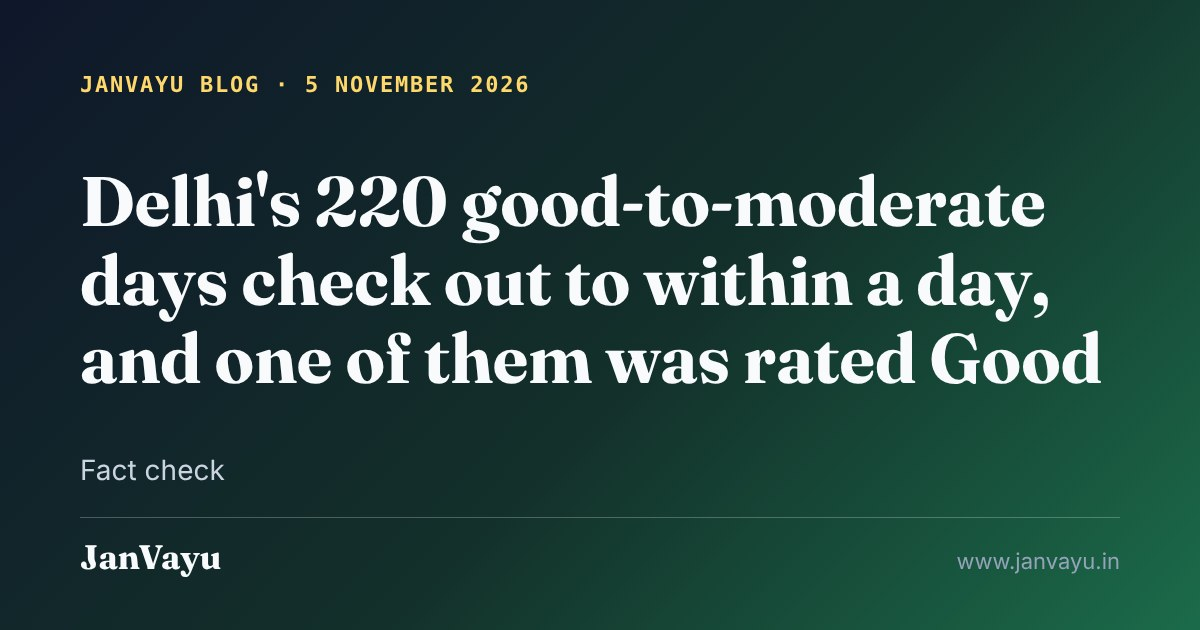
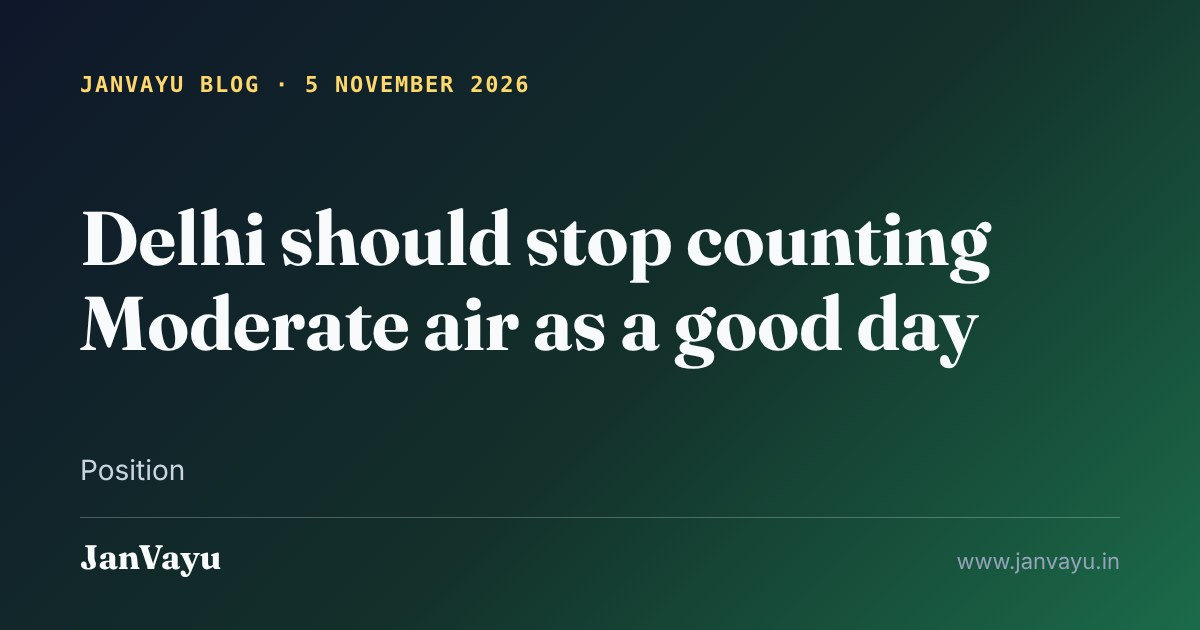
Update: 220-days post rewritten as a position piece; blog guide adds a stance section
Claude-Session: https://claude.ai/code/session_01ArXSkL7dvMWGkK3S6vfMTK

Changed region(s): [[0.0617, 0.2714, 0.925, 0.6333], [0.0617, 0.7238, 0.185, 0.7841]]

diff --git a/blog/2026-11-05-delhi-220-good-to-moderate-days/index.html b/blog/2026-11-05-delhi-220-good-to-moderate-days/index.html
@@ -4,32 +4,32 @@
 <meta charset="UTF-8">
 <meta name="viewport" content="width=device-width, initial-scale=1.0">
 <!-- Generated by scripts/build-share.py from blog/posts/2026-11-05-delhi-220-good-to-moderate-days.md. Edit the Markdown, then re-run the script. -->
-<title>Delhi&#x27;s 220 good-to-moderate days check out to within a day, and one of them was rated Good | JanVayu Blog</title>
-<meta name="description" content="A post on X by the environmentalist Vimlendu Jha, which reached us on 5 November as a screenshot, says Delhi&#x27;s Environment Minister claims 222 &quot;good air days&quot; so far this year, while the official…">
+<title>Delhi should stop counting Moderate air as a good day | JanVayu Blog</title>
+<meta name="description" content="Delhi&#x27;s government says the capital had 220 &quot;good to moderate&quot; days between January and October 2026. The environmentalist Vimlendu Jha answered that the official data shows one good day, and that…">
 <!-- share-meta:start -->
 <link rel="canonical" href="https://www.janvayu.in/blog/2026-11-05-delhi-220-good-to-moderate-days/">
 <meta property="og:site_name" content="JanVayu">
 <meta property="og:locale" content="en_IN">
 <meta property="og:type" content="article">
-<meta property="og:title" content="Delhi&#x27;s 220 good-to-moderate days check out to within a day, and one of them was rated Good">
-<meta property="og:description" content="A post on X by the environmentalist Vimlendu Jha, which reached us on 5 November as a screenshot, says Delhi&#x27;s Environment Minister claims 222 &quot;good air days&quot; so far this year, while the official…">
+<meta property="og:title" content="Delhi should stop counting Moderate air as a good day">
+<meta property="og:description" content="Delhi&#x27;s government says the capital had 220 &quot;good to moderate&quot; days between January and October 2026. The environmentalist Vimlendu Jha answered that the official data shows one good day, and that…">
 <meta property="og:url" content="https://www.janvayu.in/blog/2026-11-05-delhi-220-good-to-moderate-days/">
 <meta property="og:image" content="https://www.janvayu.in/og/blog/2026-11-05-delhi-220-good-to-moderate-days.jpg">
 <meta property="og:image:width" content="1200">
 <meta property="og:image:height" content="630">
-<meta property="og:image:alt" content="JanVayu blog: Delhi&#x27;s 220 good-to-moderate days check out to within a day, and one of them was rated Good">
+<meta property="og:image:alt" content="JanVayu blog: Delhi should stop counting Moderate air as a good day">
 <meta name="twitter:card" content="summary_large_image">
-<meta name="twitter:title" content="Delhi&#x27;s 220 good-to-moderate days check out to within a day, and one of them was rated Good">
-<meta name="twitter:description" content="A post on X by the environmentalist Vimlendu Jha, which reached us on 5 November as a screenshot, says Delhi&#x27;s Environment Minister claims 222 &quot;good air days&quot; so far this year, while the official…">
+<meta name="twitter:title" content="Delhi should stop counting Moderate air as a good day">
+<meta name="twitter:description" content="Delhi&#x27;s government says the capital had 220 &quot;good to moderate&quot; days between January and October 2026. The environmentalist Vimlendu Jha answered that the official data shows one good day, and that…">
 <meta name="twitter:image" content="https://www.janvayu.in/og/blog/2026-11-05-delhi-220-good-to-moderate-days.jpg">
-<meta name="twitter:image:alt" content="JanVayu blog: Delhi&#x27;s 220 good-to-moderate days check out to within a day, and one of them was rated Good">
+<meta name="twitter:image:alt" content="JanVayu blog: Delhi should stop counting Moderate air as a good day">
 <meta property="article:published_time" content="2026-11-05">
 <script type="application/ld+json">
 {
   "@context": "https://schema.org",
   "@type": "BlogPosting",
-  "headline": "Delhi's 220 good-to-moderate days check out to within a day, and one of them was rated Good",
-  "description": "A post on X by the environmentalist Vimlendu Jha, which reached us on 5 November as a screenshot, says Delhi's Environment Minister claims 222 \"good air days\" so far this year, while the official…",
+  "headline": "Delhi should stop counting Moderate air as a good day",
+  "description": "Delhi's government says the capital had 220 \"good to moderate\" days between January and October 2026. The environmentalist Vimlendu Jha answered that the official data shows one good day, and that…",
   "datePublished": "2026-11-05",
   "author": {
     "@type": "Organization",
@@ -46,7 +46,7 @@
   "image": "https://www.janvayu.in/og/blog/2026-11-05-delhi-220-good-to-moderate-days.jpg",
   "mainEntityOfPage": "https://www.janvayu.in/blog/2026-11-05-delhi-220-good-to-moderate-days/",
   "inLanguage": "en-IN",
-  "articleSection": "Fact check"
+  "articleSection": "Position"
 }
 </script>
 <!-- share-meta:end -->
@@ -77,35 +77,44 @@
 </head>
 <body data-jv-chrome>
 <main class="container post-page" id="main-content">
-<p class="crumb"><a href="/blog/">JanVayu Blog</a> &middot; Fact check</p>
-<h1>Delhi&#x27;s 220 good-to-moderate days check out to within a day, and one of them was rated Good</h1>
+<p class="crumb"><a href="/blog/">JanVayu Blog</a> &middot; Position</p>
+<h1>Delhi should stop counting Moderate air as a good day</h1>
 <article>
 <p><strong>Published:</strong> 5 November 2026 | <strong>Author:</strong> Team JanVayu | <strong>Reading time:</strong> 6 min</p>
 <hr>
-<p>A post on X by the environmentalist Vimlendu Jha, which reached us on 5 November as a screenshot, says Delhi's Environment Minister claims 222 "good air days" so far this year, while the official data shows one. It says the minister reached 222 by counting Moderate days as good, and calls that institutional gaslighting and deliberate misrepresentation. We checked it against the Union Environment Ministry's release and CPCB's daily bulletins. The count is real and the one-good-day figure is right. The label on the count is the problem, and we could not find a figure of 222 anywhere.</p>
-<h2>What the Ministry published</h2>
-<p>On 31 October the Union Environment Ministry (PIB release 2331032) reported 220 days of "Good to Moderate" air in Delhi from 1 January to 31 October 2026. It set that against 200 days in 2025, 201 in 2024, 206 in 2023, 160 in 2022, 197 in 2021, 224 in 2020, 175 in 2019 and 157 in 2018. It also reported 84 "Poor to Severe+" days against 104 in both 2025 and 2024.</p>
-<p>Earlier figures from the same government were 211 days as of 17 October (IANS) and 214 days around 22 October (Business Today). We found no statement of 222. If the post quotes a later figure, we have not seen it.</p>
-<p>We count from CPCB's own daily bulletin. For 1 January to 31 October, 304 days, Delhi was rated Good on 1 day, Satisfactory on 62 and Moderate on 156, which is 219 days. It was Poor on 66, Very Poor on 17 and Severe on 2, which is 85. The Ministry's 220 and 84 are one day away from ours, the same one-day gap we found on 17 October, when we counted 210 against the government's 211. The government has not published its day-by-day list, so we cannot say which day it is.</p>
-<p>The bulletins since 31 October leave no room for more. Delhi was Poor on 1 November (261), then Very Poor on 2 November (324), 3 November (350) and 4 November (377). No day after 31 October qualifies, so no count taken from the bulletins to 4 November can reach 222.</p>
-<h2>What is in the 220</h2>
-<p>On our count, one of the 219 days was Good, 62 were Satisfactory and 156 were Moderate. The post's "one good day" matches CPCB. Delhi's bulletin has rated between 0 and 5 days a year Good since 2016: 0, 2, 0, 2, 5, 1, 3, 1, 0, 0 and now 1 for 2016 to 2026 in order.</p>
-<p>The post gives Moderate as 100 to 200. On CPCB's scale it is 101 to 200, and 100 is the top of Satisfactory.</p>
-<h2>Whether the label is the problem</h2>
-<p>The Ministry's release says "Good to Moderate" and defines the category as a daily average AQI below 200. It does not call these days good. The headlines did. On 3 November outlets ran "220 clean-air days", and a Moderate day is not clean by the national standard. We set that out on 19 October: for PM2.5 the national 24-hour standard is 60 µg/m³ and a Moderate day covers 61 to 90 µg/m³.</p>
-<p>"Deliberate misrepresentation" is a claim about intent, and the data cannot show intent. What the data shows is this. The categories are CPCB's. The release states its definition. Its comparison uses the same January-to-October window for every year, which the 17 October statement did not. A headline that reads "220 clean-air days" still tells a reader something the numbers do not say. On our count, 63 days were Satisfactory or better, the days on which the city's index was within the national standard.</p>
-<h2>What else the release shows</h2>
-<p>The January-to-October average AQI was 167, against 170 in 2025 and 156 in 2020. Average PM2.5 from 1 January to 29 October was 69 µg/m³, against 72 in 2025 and 71 in 2020. Average PM10 was 171, against 166 in 2025 and 147 in 2020, so coarse dust went up while fine particles edged down.</p>
-<p>2020 still has more Good-to-Moderate days than 2026 (224) and fewer Poor-to-Severe+ days (81). The release's own headline says "highest since 2018 (except 2020)", and its table agrees.</p>
-<h2>Weather and what came next</h2>
-<p>The last days of October were wet. A news report puts rain at 61.4 mm at Safdarjung on 30 October, and CPCB rated that day Satisfactory at 60. AQI was 117 on 31 October and 261 on 1 November, and Stage II of GRAP was invoked on 2 November according to press reports. Weather moves a count of days on its own, so a count that ends in a week of rain says less about policy than it appears to.</p>
-<h2>What would settle it</h2>
-<p>Publishing the day-by-day list behind each count would find the one-day gap and let anyone trace a figure like 222. If you have the statement that contains 222, send it to <code>contribute@janvayu.in</code> and we will add it here.</p>
+<p>Delhi's government says the capital had 220 "good to moderate" days between January and October 2026. The environmentalist Vimlendu Jha answered that the official data shows one good day, and that Moderate has been folded into a number which headlines then call good air. He is right about the core of it, and we share his anger. Delhi should stop presenting Moderate air as a success, and the rest of this post says why, with the numbers.</p>
+<p>Jha quotes 222 days. The Union Environment Ministry's release of 31 October says 220, and our count from CPCB's bulletins is 219. We have not found a statement of 222, and the gap does not change the argument.</p>
+<h2>One day was Good</h2>
+<p>From 1 January to 31 October, 304 days, CPCB's bulletin rated Delhi Good on one day, Satisfactory on 62 and Moderate on 156. That is 219 days at Moderate or better, and 85 at Poor or worse. The Ministry's figures are 220 and 84, one day away from ours, the same one-day gap as on 17 October. The government has not published its day-by-day list, so we cannot say which day it is.</p>
+<p>Jha's "one good day" is exactly what CPCB's bulletin shows. Delhi has had between 0 and 5 Good days a year since 2016: 0, 2, 0, 2, 5, 1, 3, 1, 0, 0 and now 1.</p>
+<h2>Moderate is above the national standard</h2>
+<p>On CPCB's scale a Moderate day runs from an AQI of 101 to 200. For PM2.5 that means 61 to 90 µg/m³ in a day, against a national 24-hour standard of 60 and a WHO guideline of 15. The top of the Moderate band is six times the WHO figure. CPCB's own bulletin describes what Moderate means for people: "breathing discomfort to the people with lungs, asthma and heart diseases".</p>
+<p>A headline that says "220 clean-air days" tells those readers the opposite of CPCB's advisory. It did run that way, in at least two outlets, including DJ News Live on 3 November. Whoever chose the framing, the effect on a parent deciding about a school run or a person with asthma deciding about a walk is the same.</p>
+<h2>What the Ministry's own table shows</h2>
+<p>The release is more candid than the headlines made from it, so here is what is in it.</p>
+<ul>
+<li>Poor-to-Severe+ days fell to 84 from 104 in both 2025 and 2024. That is a real improvement, and the best result outside 2020, which had 81.</li>
+<li>The average PM2.5 from 1 January to 29 October was 69 µg/m³, against 72 in 2025 and 71 in 2020. The national annual standard is 40. Fine particles are barely lower than last year.</li>
+<li>Average PM10 was 171, against 166 in 2025 and 147 in 2020. Coarse dust went up.</li>
+<li>The January to October average AQI was 167, against 170 in 2025 and 156 in 2020.</li>
+<li>2020, the year of the lockdown, still has more good-to-moderate days (224) than 2026.</li>
+</ul>
+<p>Put plainly, Delhi had fewer very bad days this year and about the same amount of fine particles. That is progress worth naming, and it is smaller than "220 good days".</p>
+<h2>The weather did some of the work</h2>
+<p>A news report puts 61.4 mm of rain at Safdarjung on 30 October, and CPCB rated that day Satisfactory at 60. AQI was 117 on 31 October and 261 on 1 November, then 324, 350 and 377 on 2, 3 and 4 November, and Stage II of GRAP was invoked on 2 November according to press reports. A count that closes just after rain flatters the year, because the days that followed were Poor and Very Poor.</p>
+<h2>What Delhi should report instead</h2>
+<ol>
+<li>The days at or below the national standard, meaning Satisfactory or better, counted for the same dates every year. On our count that is 63 of 304 days in 2026, about one in five.</li>
+<li>The PM2.5 and PM10 averages, shown beside the national standard, in the same release as the day count.</li>
+<li>The number of stations behind the index. Delhi's median bulletin rested on 5 stations in 2016 and 44 in 2026, and a comparison across that change needs saying.</li>
+<li>The day-by-day list behind every count, so anyone can check the one-day gaps and trace a figure like 222.</li>
+</ol>
+<p>And "clean-air days" should not be used for any count that includes Moderate. That is the change we are asking the Delhi government, the Ministry and the newsrooms that carry their releases to make. If you have the statement that contains 222, or a reason to correct anything here, write to <code>contribute@janvayu.in</code> and we will update this post in public.</p>
 <hr>
 <h2>Sources</h2>
 <ul>
 <li><a href="https://www.pib.gov.in/PressReleasePage.aspx?PRID=2331032&amp;reg=48&amp;lang=2">Ministry of Environment, Forest and Climate Change, "Delhi Records Lowest Average AQI for October in the Last Eight Years at 166", PIB release 2331032, 31 October 2026</a></li>
-<li><a href="https://cpcb.nic.in/upload/Downloads/AQI_Bulletin_20261104.pdf">CPCB daily AQI bulletins, 2 to 4 November 2026</a>, and the bulletin file we hold for 1 January to 1 November, <a href="https://github.com/JanVayu/JanVayu/blob/main/data/raw/cpcb-bulletins-2026.csv.gz">data/raw/cpcb-bulletins-2026.csv.gz</a></li>
+<li><a href="https://cpcb.nic.in/upload/Downloads/AQI_Bulletin_20261104.pdf">CPCB daily AQI bulletins, including 4 November 2026 with CPCB's category health statements</a>, and the bulletin file we hold for 1 January to 1 November, <a href="https://github.com/JanVayu/JanVayu/blob/main/data/raw/cpcb-bulletins-2026.csv.gz">data/raw/cpcb-bulletins-2026.csv.gz</a></li>
 <li><a href="/blog/2026-10-19-delhi-211-days-checked/">JanVayu, "Delhi's 211 days of good-to-moderate air, checked day by day", 19 October 2026</a></li>
 <li><a href="https://www.socialnews.xyz/2026/10/17/delhi-has-achieved-211-good-to-moderate-air-quality-days-in-2026-environment-minister/">IANS report of the Delhi government's statement, 17 October 2026</a></li>
 <li><a href="https://www.djnewslive.com/india/delhi-records-220-clean-air-days-as-october-aqi-hits-eight-year/article-9771">DJ News Live, "Delhi Records 220 Clean-Air Days in 2026", 3 November 2026</a></li>
@@ -115,11 +124,11 @@
 </article>
 <div class="jv-share" data-share-bar>
   <span class="jv-share-label">Share</span>
-  <a href="https://wa.me/?text=Delhi%27s%20220%20good-to-moderate%20days%20check%20out%20to%20within%20a%20day%2C%20and%20one%20of%20them%20was%20rated%20Good%0Ahttps%3A//www.janvayu.in/blog/2026-11-05-delhi-220-good-to-moderate-days/" target="_blank" rel="noopener">WhatsApp</a>
-  <a href="https://twitter.com/intent/tweet?text=Delhi%27s%20220%20good-to-moderate%20days%20check%20out%20to%20within%20a%20day%2C%20and%20one%20of%20them%20was%20rated%20Good&amp;url=https%3A//www.janvayu.in/blog/2026-11-05-delhi-220-good-to-moderate-days/" target="_blank" rel="noopener">X</a>
+  <a href="https://wa.me/?text=Delhi%20should%20stop%20counting%20Moderate%20air%20as%20a%20good%20day%0Ahttps%3A//www.janvayu.in/blog/2026-11-05-delhi-220-good-to-moderate-days/" target="_blank" rel="noopener">WhatsApp</a>
+  <a href="https://twitter.com/intent/tweet?text=Delhi%20should%20stop%20counting%20Moderate%20air%20as%20a%20good%20day&amp;url=https%3A//www.janvayu.in/blog/2026-11-05-delhi-220-good-to-moderate-days/" target="_blank" rel="noopener">X</a>
   <a href="https://www.linkedin.com/sharing/share-offsite/?url=https%3A//www.janvayu.in/blog/2026-11-05-delhi-220-good-to-moderate-days/" target="_blank" rel="noopener">LinkedIn</a>
-  <a href="https://t.me/share/url?url=https%3A//www.janvayu.in/blog/2026-11-05-delhi-220-good-to-moderate-days/&amp;text=Delhi%27s%20220%20good-to-moderate%20days%20check%20out%20to%20within%20a%20day%2C%20and%20one%20of%20them%20was%20rated%20Good" target="_blank" rel="noopener">Telegram</a>
-  <a href="mailto:?subject=Delhi%27s%20220%20good-to-moderate%20days%20check%20out%20to%20within%20a%20day%2C%20and%20one%20of%20them%20was%20rated%20Good&amp;body=https%3A//www.janvayu.in/blog/2026-11-05-delhi-220-good-to-moderate-days/">Email</a>
+  <a href="https://t.me/share/url?url=https%3A//www.janvayu.in/blog/2026-11-05-delhi-220-good-to-moderate-days/&amp;text=Delhi%20should%20stop%20counting%20Moderate%20air%20as%20a%20good%20day" target="_blank" rel="noopener">Telegram</a>
+  <a href="mailto:?subject=Delhi%20should%20stop%20counting%20Moderate%20air%20as%20a%20good%20day&amp;body=https%3A//www.janvayu.in/blog/2026-11-05-delhi-220-good-to-moderate-days/">Email</a>
 </div>
 <footer class="post-foot">
 <p><a href="/blog/">All posts</a> &middot; <a href="/blog/#/posts/2026-11-05-delhi-220-good-to-moderate-days">Open in the blog reader</a> &middot; <a href="/">JanVayu dashboard</a></p>

diff --git a/blog/posts/2026-11-05-delhi-220-good-to-moderate-days.md b/blog/posts/2026-11-05-delhi-220-good-to-moderate-days.md
@@ -1,53 +1,56 @@
-# Delhi's 220 good-to-moderate days check out to within a day, and one of them was rated Good
+# Delhi should stop counting Moderate air as a good day
 
 **Published:** 5 November 2026 | **Author:** Team JanVayu | **Reading time:** 6 min
 
 ---
 
-A post on X by the environmentalist Vimlendu Jha, which reached us on 5 November as a screenshot, says Delhi's Environment Minister claims 222 "good air days" so far this year, while the official data shows one. It says the minister reached 222 by counting Moderate days as good, and calls that institutional gaslighting and deliberate misrepresentation. We checked it against the Union Environment Ministry's release and CPCB's daily bulletins. The count is real and the one-good-day figure is right. The label on the count is the problem, and we could not find a figure of 222 anywhere.
+Delhi's government says the capital had 220 "good to moderate" days between January and October 2026. The environmentalist Vimlendu Jha answered that the official data shows one good day, and that Moderate has been folded into a number which headlines then call good air. He is right about the core of it, and we share his anger. Delhi should stop presenting Moderate air as a success, and the rest of this post says why, with the numbers.
 
-## What the Ministry published
+Jha quotes 222 days. The Union Environment Ministry's release of 31 October says 220, and our count from CPCB's bulletins is 219. We have not found a statement of 222, and the gap does not change the argument.
 
-On 31 October the Union Environment Ministry (PIB release 2331032) reported 220 days of "Good to Moderate" air in Delhi from 1 January to 31 October 2026. It set that against 200 days in 2025, 201 in 2024, 206 in 2023, 160 in 2022, 197 in 2021, 224 in 2020, 175 in 2019 and 157 in 2018. It also reported 84 "Poor to Severe+" days against 104 in both 2025 and 2024.
+## One day was Good
 
-Earlier figures from the same government were 211 days as of 17 October (IANS) and 214 days around 22 October (Business Today). We found no statement of 222. If the post quotes a later figure, we have not seen it.
+From 1 January to 31 October, 304 days, CPCB's bulletin rated Delhi Good on one day, Satisfactory on 62 and Moderate on 156. That is 219 days at Moderate or better, and 85 at Poor or worse. The Ministry's figures are 220 and 84, one day away from ours, the same one-day gap as on 17 October. The government has not published its day-by-day list, so we cannot say which day it is.
 
-We count from CPCB's own daily bulletin. For 1 January to 31 October, 304 days, Delhi was rated Good on 1 day, Satisfactory on 62 and Moderate on 156, which is 219 days. It was Poor on 66, Very Poor on 17 and Severe on 2, which is 85. The Ministry's 220 and 84 are one day away from ours, the same one-day gap we found on 17 October, when we counted 210 against the government's 211. The government has not published its day-by-day list, so we cannot say which day it is.
+Jha's "one good day" is exactly what CPCB's bulletin shows. Delhi has had between 0 and 5 Good days a year since 2016: 0, 2, 0, 2, 5, 1, 3, 1, 0, 0 and now 1.
 
-The bulletins since 31 October leave no room for more. Delhi was Poor on 1 November (261), then Very Poor on 2 November (324), 3 November (350) and 4 November (377). No day after 31 October qualifies, so no count taken from the bulletins to 4 November can reach 222.
+## Moderate is above the national standard
 
-## What is in the 220
+On CPCB's scale a Moderate day runs from an AQI of 101 to 200. For PM2.5 that means 61 to 90 µg/m³ in a day, against a national 24-hour standard of 60 and a WHO guideline of 15. The top of the Moderate band is six times the WHO figure. CPCB's own bulletin describes what Moderate means for people: "breathing discomfort to the people with lungs, asthma and heart diseases".
 
-On our count, one of the 219 days was Good, 62 were Satisfactory and 156 were Moderate. The post's "one good day" matches CPCB. Delhi's bulletin has rated between 0 and 5 days a year Good since 2016: 0, 2, 0, 2, 5, 1, 3, 1, 0, 0 and now 1 for 2016 to 2026 in order.
+A headline that says "220 clean-air days" tells those readers the opposite of CPCB's advisory. It did run that way, in at least two outlets, including DJ News Live on 3 November. Whoever chose the framing, the effect on a parent deciding about a school run or a person with asthma deciding about a walk is the same.
 
-The post gives Moderate as 100 to 200. On CPCB's scale it is 101 to 200, and 100 is the top of Satisfactory.
+## What the Ministry's own table shows
 
-## Whether the label is the problem
+The release is more candid than the headlines made from it, so here is what is in it.
 
-The Ministry's release says "Good to Moderate" and defines the category as a daily average AQI below 200. It does not call these days good. The headlines did. On 3 November outlets ran "220 clean-air days", and a Moderate day is not clean by the national standard. We set that out on 19 October: for PM2.5 the national 24-hour standard is 60 µg/m³ and a Moderate day covers 61 to 90 µg/m³.
+- Poor-to-Severe+ days fell to 84 from 104 in both 2025 and 2024. That is a real improvement, and the best result outside 2020, which had 81.
+- The average PM2.5 from 1 January to 29 October was 69 µg/m³, against 72 in 2025 and 71 in 2020. The national annual standard is 40. Fine particles are barely lower than last year.
+- Average PM10 was 171, against 166 in 2025 and 147 in 2020. Coarse dust went up.
+- The January to October average AQI was 167, against 170 in 2025 and 156 in 2020.
+- 2020, the year of the lockdown, still has more good-to-moderate days (224) than 2026.
 
-"Deliberate misrepresentation" is a claim about intent, and the data cannot show intent. What the data shows is this. The categories are CPCB's. The release states its definition. Its comparison uses the same January-to-October window for every year, which the 17 October statement did not. A headline that reads "220 clean-air days" still tells a reader something the numbers do not say. On our count, 63 days were Satisfactory or better, the days on which the city's index was within the national standard.
+Put plainly, Delhi had fewer very bad days this year and about the same amount of fine particles. That is progress worth naming, and it is smaller than "220 good days".
 
-## What else the release shows
+## The weather did some of the work
 
-The January-to-October average AQI was 167, against 170 in 2025 and 156 in 2020. Average PM2.5 from 1 January to 29 October was 69 µg/m³, against 72 in 2025 and 71 in 2020. Average PM10 was 171, against 166 in 2025 and 147 in 2020, so coarse dust went up while fine particles edged down.
+A news report puts 61.4 mm of rain at Safdarjung on 30 October, and CPCB rated that day Satisfactory at 60. AQI was 117 on 31 October and 261 on 1 November, then 324, 350 and 377 on 2, 3 and 4 November, and Stage II of GRAP was invoked on 2 November according to press reports. A count that closes just after rain flatters the year, because the days that followed were Poor and Very Poor.
 
-2020 still has more Good-to-Moderate days than 2026 (224) and fewer Poor-to-Severe+ days (81). The release's own headline says "highest since 2018 (except 2020)", and its table agrees.
+## What Delhi should report instead
 
-## Weather and what came next
+1. The days at or below the national standard, meaning Satisfactory or better, counted for the same dates every year. On our count that is 63 of 304 days in 2026, about one in five.
+2. The PM2.5 and PM10 averages, shown beside the national standard, in the same release as the day count.
+3. The number of stations behind the index. Delhi's median bulletin rested on 5 stations in 2016 and 44 in 2026, and a comparison across that change needs saying.
+4. The day-by-day list behind every count, so anyone can check the one-day gaps and trace a figure like 222.
 
-The last days of October were wet. A news report puts rain at 61.4 mm at Safdarjung on 30 October, and CPCB rated that day Satisfactory at 60. AQI was 117 on 31 October and 261 on 1 November, and Stage II of GRAP was invoked on 2 November according to press reports. Weather moves a count of days on its own, so a count that ends in a week of rain says less about policy than it appears to.
-
-## What would settle it
-
-Publishing the day-by-day list behind each count would find the one-day gap and let anyone trace a figure like 222. If you have the statement that contains 222, send it to `contribute@janvayu.in` and we will add it here.
+And "clean-air days" should not be used for any count that includes Moderate. That is the change we are asking the Delhi government, the Ministry and the newsrooms that carry their releases to make. If you have the statement that contains 222, or a reason to correct anything here, write to `contribute@janvayu.in` and we will update this post in public.
 
 ---
 
 ## Sources
 
 - [Ministry of Environment, Forest and Climate Change, "Delhi Records Lowest Average AQI for October in the Last Eight Years at 166", PIB release 2331032, 31 October 2026](https://www.pib.gov.in/PressReleasePage.aspx?PRID=2331032&reg=48&lang=2)
-- [CPCB daily AQI bulletins, 2 to 4 November 2026](https://cpcb.nic.in/upload/Downloads/AQI_Bulletin_20261104.pdf), and the bulletin file we hold for 1 January to 1 November, [data/raw/cpcb-bulletins-2026.csv.gz](https://github.com/JanVayu/JanVayu/blob/main/data/raw/cpcb-bulletins-2026.csv.gz)
+- [CPCB daily AQI bulletins, including 4 November 2026 with CPCB's category health statements](https://cpcb.nic.in/upload/Downloads/AQI_Bulletin_20261104.pdf), and the bulletin file we hold for 1 January to 1 November, [data/raw/cpcb-bulletins-2026.csv.gz](https://github.com/JanVayu/JanVayu/blob/main/data/raw/cpcb-bulletins-2026.csv.gz)
 - [JanVayu, "Delhi's 211 days of good-to-moderate air, checked day by day", 19 October 2026](/blog/2026-10-19-delhi-211-days-checked/)
 - [IANS report of the Delhi government's statement, 17 October 2026](https://www.socialnews.xyz/2026/10/17/delhi-has-achieved-211-good-to-moderate-air-quality-days-in-2026-environment-minister/)
 - [DJ News Live, "Delhi Records 220 Clean-Air Days in 2026", 3 November 2026](https://www.djnewslive.com/india/delhi-records-220-clean-air-days-as-october-aqi-hits-eight-year/article-9771)

diff --git a/blog/how-we-write.md b/blog/how-we-write.md
@@ -22,6 +22,18 @@ Stay calm. The facts are alarming on their own, so let them be. No doom, no hype
 
 Be specific. A number with a source and a date beats an adjective. "3.5 years of life expectancy lost (AQLI 2025)" beats "devastating harm."
 
+## Take a stance, on the evidence
+
+JanVayu is for clean air, and a post should say so. Evidence is what we argue from. It is not the format of the post, and a post should never read as a verdict on someone else's statement.
+
+- Start from the question or the failure that matters to the reader, say what we think should happen, then show the numbers that support it. "Delhi should stop counting Moderate air as a good day" is a post. "We checked a claim about Moderate days" is not.
+- A post argues for something specific: a metric, a standard, a data release, a policy, a deadline. End on one sentence we would defend in public and one thing we are asking for.
+- When someone else has made a claim (a minister, a journalist, an environmentalist, a researcher), engage with their point and say first where they are right. People who work on air quality are allies unless the evidence shows otherwise, and we disagree with them on specifics, with respect. We do not grade them.
+- When we cannot verify a figure, say so in one sentence and carry on with what the evidence does show. Do not build the post around the gap.
+- Intent: we describe what a choice does to readers, and we do not need to prove motive to say a choice is wrong. A metric that counts air above the national standard as a success is the wrong metric whoever chose it.
+- No party is endorsed or opposed, and every government gets the same scrutiny. A stance on a standard, a number or a policy is not a stance on a party.
+- Do not label a post "fact check", and do not write "we checked". Label it Position, Analysis, Explainer or Data.
+
 ## The three non-negotiables
 
 These are what separate JanVayu from a marketing site. Never break them.

diff --git a/CHANGELOG.md b/CHANGELOG.md
@@ -13,6 +13,8 @@ and this project adheres to [Semantic Versioning](https://semver.org/spec/v2.0.0
 - Reading List: Turner and others (2020) on outdoor air pollution and cancer, as a peer-reviewed entry (now 78 studies, with BibTeX and RIS regenerated), plus the UICC and George Institute report and IARC Monographs Volume 109 as report entries. The count of curated items in the panel text is corrected from eleven to fourteen.
 
 ### Changed
+- Blog: the 220-days post is rewritten as a position piece, "Delhi should stop counting Moderate air as a good day". It credits Vimlendu Jha's core point, keeps the evidence (one Good day, 219 days at Moderate or better on our count against the Ministry's 220, PM2.5 69 against 72, PM10 up), and asks for four changes to how Delhi reports air quality. The URL is unchanged. We did not find a statement of 222 and say so in one sentence.
+- Blog guide: a new section, "Take a stance, on the evidence". JanVayu is for clean air and posts argue for something specific, engage with other people's claims by saying first where they are right, and are labelled Position, Analysis, Explainer or Data and never "fact check".
 - Beyond the Lungs: a Cancer card with the IARC classification, the UICC figures, the limit on evidence for cancers other than lung and the AIRCARE study, with a link to the post. Version 26.6.250.
 
 ## [Unreleased] - 2026-11-04

diff --git a/blog/README.md b/blog/README.md
@@ -10,7 +10,7 @@ Data, research, policy accountability, and what the numbers mean for 1.4 billion
 
 | Date | Post | Topic |
 |------|------|-------|
-| 5 Nov 2026 | [Delhi's 220 good-to-moderate days check out to within a day, and one of them was rated Good](posts/2026-11-05-delhi-220-good-to-moderate-days.md) | Fact check |
+| 5 Nov 2026 | [Delhi should stop counting Moderate air as a good day](posts/2026-11-05-delhi-220-good-to-moderate-days.md) | Position |
 | 5 Nov 2026 | [Air pollution is a Group 1 carcinogen and the evidence is strongest for lung cancer: the Indian Express explainer, checked](posts/2026-11-05-air-pollution-and-cancer-what-the-evidence-supports.md) | Fact check |
 | 4 Nov 2026 | [Delhi's recorded preterm births rose 51% in five years. Studies link PM2.5 to early birth, but the Delhi count cannot show it](posts/2026-11-04-pollution-and-preterm-birth-delhi.md) | Fact check |
 | 1 Nov 2026 | [CBSE has dropped Environmental Education from Class 10 for the 2027-28 batch, and the circular leaves one question open](posts/2026-11-01-cbse-class-10-environmental-education.md) | Fact check |

diff --git a/blog/_sidebar.md b/blog/_sidebar.md
@@ -4,7 +4,7 @@
 - [How We Write (contributor guide)](how-we-write.md)
 
 - **November 2026**
-  - [Delhi's 220 good-to-moderate days check out to within a day, and one of them was rated Good](posts/2026-11-05-delhi-220-good-to-moderate-days.md)
+  - [Delhi should stop counting Moderate air as a good day](posts/2026-11-05-delhi-220-good-to-moderate-days.md)
   - [Air pollution is a Group 1 carcinogen and the evidence is strongest for lung cancer: the Indian Express explainer, checked](posts/2026-11-05-air-pollution-and-cancer-what-the-evidence-supports.md)
   - [Delhi's recorded preterm births rose 51% in five years. Studies link PM2.5 to early birth, but the Delhi count cannot show it](posts/2026-11-04-pollution-and-preterm-birth-delhi.md)
   - [CBSE has dropped Environmental Education from Class 10 for the 2027-28 batch, and the circular leaves one question open](posts/2026-11-01-cbse-class-10-environmental-education.md)
